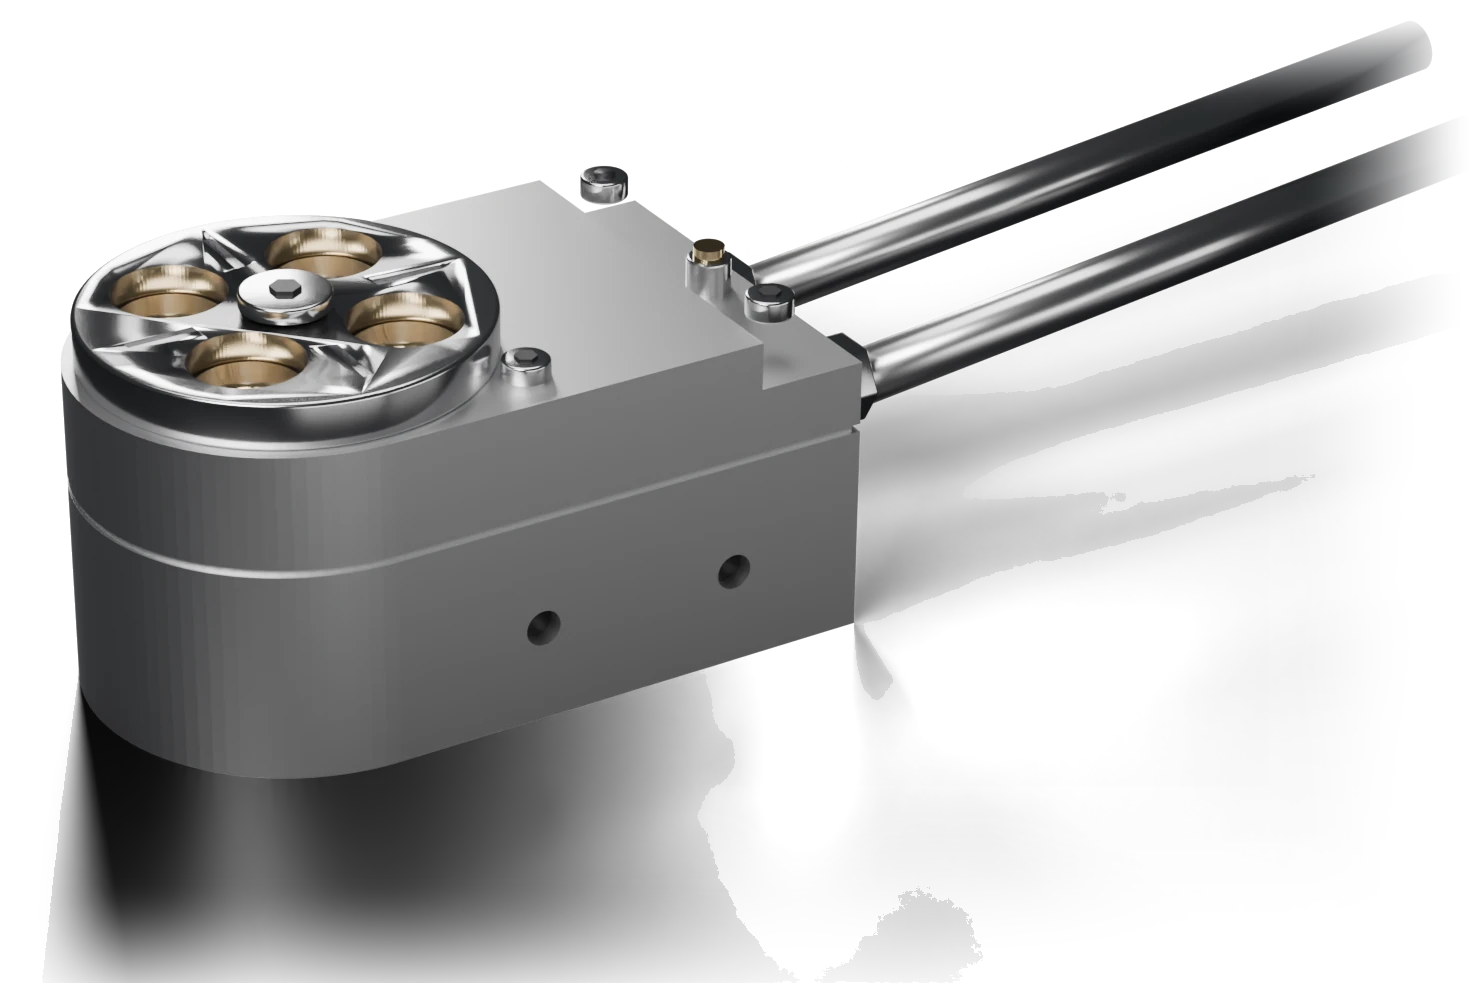
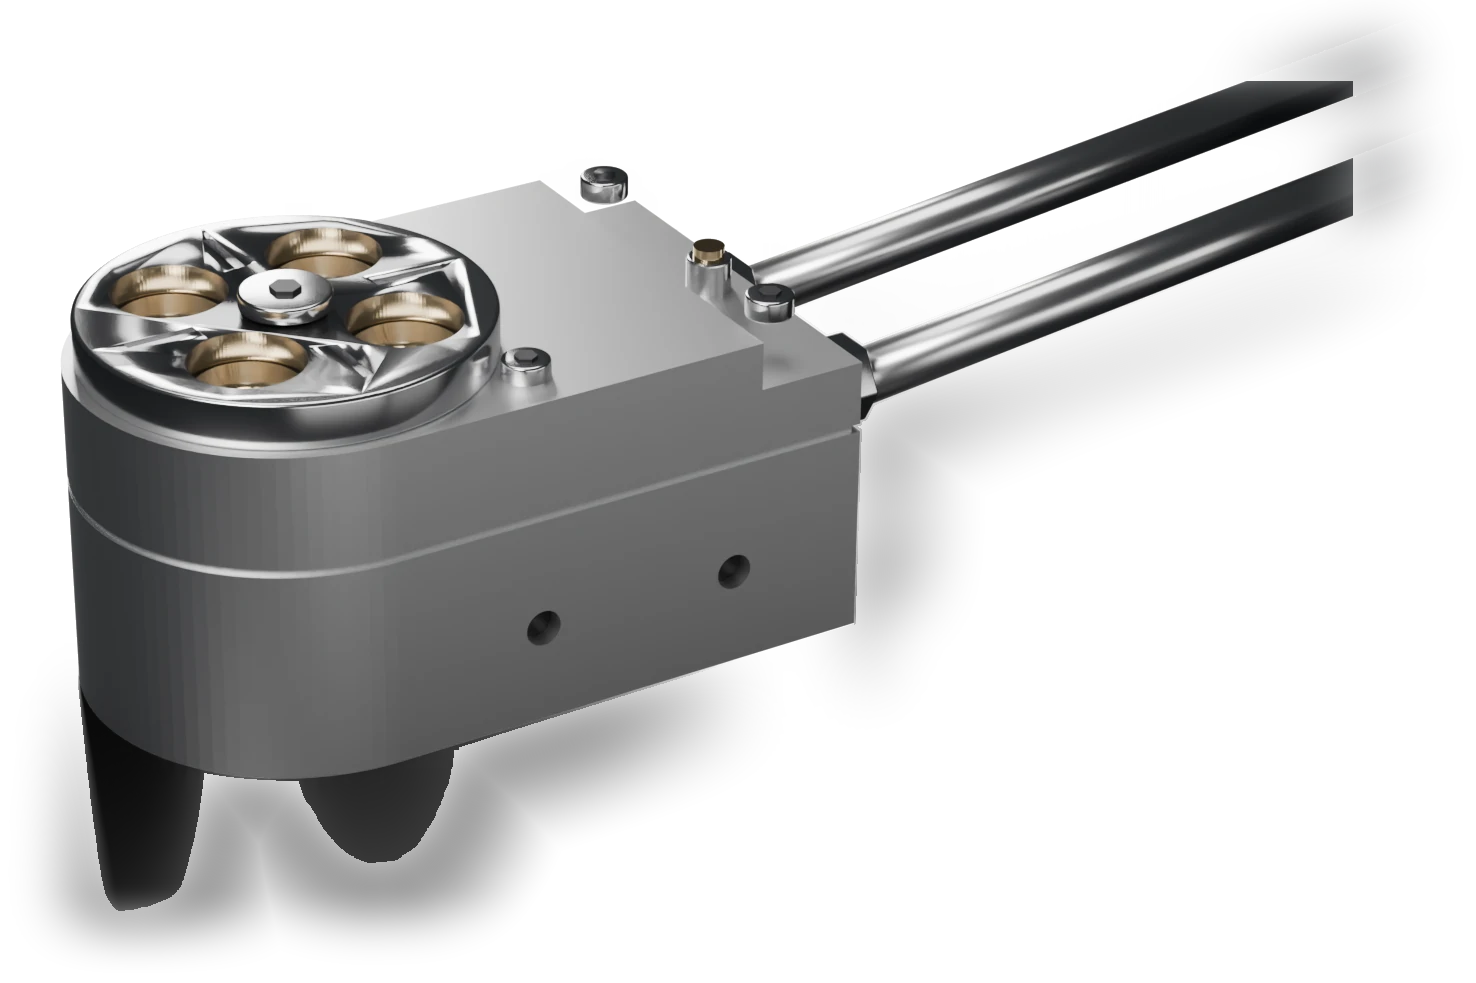
vacuuminnovations: feather the floor matte under the crystal-head render so no edge shows
Claude-Session: https://claude.ai/code/session_014388NF3LvqgWSZBitAf6eM

diff --git a/_kit/home/vacuuminnovations/hero_cut.py b/_kit/home/vacuuminnovations/hero_cut.py
@@ -38,5 +38,20 @@ B[..., 3] = B[..., 3] * np.where(yy > yb, v, 1)
 fr = np.clip(np.minimum((w - 1 - xx) / (w * .12), yy / (h * .12)), 0, 1); fr = fr * fr * (3 - 2 * fr)
 B[..., 3] = B[..., 3] * fr
 out = Image.fromarray(B.clip(0, 255).astype(np.uint8), 'RGBA')
+# feather the floor matte: everything faint (floor tone and soft shadows) is blurred wide and faded out with the distance
+# from the solid object, so no edge of the shadow-catcher plane can show anywhere (coordinator review)
+from scipy import ndimage as nd
+B = np.array(out).astype(np.float32); al = B[..., 3]
+solid = al > 200
+fl = np.where(solid, 0, np.minimum(al, 120))
+fl = np.array(Image.fromarray(fl.astype(np.uint8)).filter(ImageFilter.GaussianBlur(28))).astype(np.float32)
+dist = nd.distance_transform_edt(~solid)
+k = np.clip(1 - dist / 140, 0, 1); k = k * k * (3 - 2 * k)
+soft = np.clip(al, 0, 255) * (al > 200) + np.where(al > 200, 0, np.maximum(fl * k, np.where(dist < 3, al, 0)))
+B[..., 3] = soft
+hh = al.shape[0]; yy2 = np.arange(hh)[:, None]
+bf = np.clip((hh - 1 - yy2) / (hh * .1), 0, 1); bf = bf * bf * (3 - 2 * bf)
+B[..., 3] = B[..., 3] * bf
+out = Image.fromarray(B.clip(0, 255).astype(np.uint8), 'RGBA')
 out.save('hero-cut.webp', quality=90, method=6)
 print('asset', out.size)
